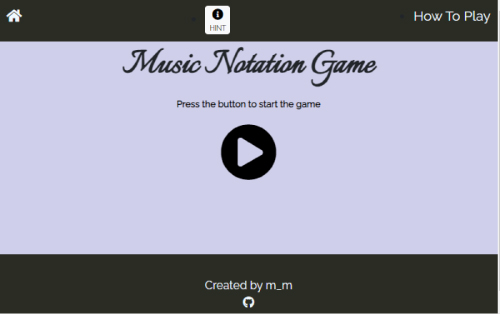
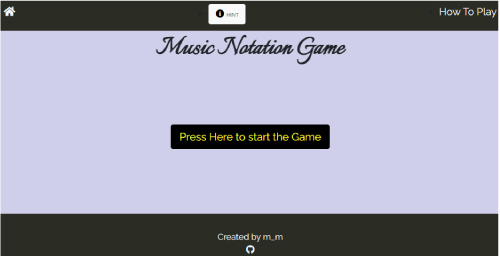
ADD revision and correction on README for contents accuracy

Changed region(s): [[0.0, 0.0, 1.0, 1.0], [0.33, 0.375, 0.66, 0.5938], [0.33, 0.3125, 0.66, 0.3438]]

diff --git a/README.md b/README.md
@@ -1,10 +1,10 @@
-![CI logo](favicon.ico)
+![Music logo](favicon.ico)
 
 # Music Notation Game
 
 This site is created as a Milestone project for Code Institute's Software Development course.
 
-Here is a link to the live project (https://mwmlln.github.io/ms2_music_notation_game/)
+Here is a link to the live project: [Music Notaion game](https://mwmlln.github.io/ms2_music_notation_game/)
 
 ## The purpose for this site
 Music Notation game is a site that hopes to help users learn to read very basic music notations while playing a game and having fun. 
@@ -36,20 +36,24 @@ This game is created for anyone who wants to get familiar with music notations w
 
 #### **Site owner’s goal**
 
+The main objective for creating this site was to gain skill set to build a presentable and interactive web site. To achieve it following considerations are taken:
+
 *	Creating a simple game site anyone can enjoy and gain a skill to read basic music notations.
 *	Creating consistent design and easy navigate pages for any user without any confusing elements.
 *	Efforts to create code clearly so that further implementation would go smoothly.
+
 
 ### **User Stories**
 
 This site is created following user’s expectations in mind.
 
-* First time user would like to:
+* A first time user would like to:
     * Have a clear instruction on what the game objective is and how to achieve it
+    * Easy access to instructions on how to play the game
     * Have a clear choice of action presented to engage in the game (i.e. which buttons to press in order to achieve their goal)
     * Have a easy navigation within the site
 
-* Returning user would like to have following 
+* A returning user would like to have following 
    * An  ability to navigate the site easily
    * Consistent page layout they can easily get familiar with
    * Easy access to instructions on how to play the game to refresh their memory
@@ -63,8 +67,8 @@ This site is created following user’s expectations in mind.
 ### **Scope**
 The scope of Music Notation game defined by the following features:
 
- * Simple and clear index page.
- * Functioning Game including clear feedback for user’s answer.
+ * Simple and clear opening page.
+ * Functioning game including clear feedback for user’s answer.
  *	Responsive design that displays properly in all device sizes.
  *	Easy to navigate pages with consistent navigation bar.
  *	Quick access to HINT popup window.
@@ -73,7 +77,7 @@ The scope of Music Notation game defined by the following features:
 ### **Structure**
 
  * Navigation bar and footer are present on both pages for users to navigate within the site
- * Upon loading a page Title and large start button present in display
+ * On the opening page Title and large start button present in display
  * Once the start button is pressed gaming panel is displayed and the game becomes accessible.
  * Choose 1 of 7 buttons to press for answer
  * Feedback is given to user’s answers and score will update.
@@ -89,77 +93,80 @@ Initial design wirefame
 
 * **Desktop**
 
-<detail><summary>Desktop version of landing page</summary> <img src="assets/wireframe/wireframe_pc.jpg"></detail>
+<details><summary>Desktop version of landing page</summary> <img src="assets/wireframe/wireframe_pc.jpg"></details>
 
-Initial design was to have all components displayed in the page.
+Initial design was to have all components displayed in one page.
 This approach turned out to be slightly confusing for users and caused game functions to produce unexpectd behaviours.
-Another change was to move the How to Play into a independent page rather than popup window. This approach was taken to reduce too many components presents in one page that may confuse users.
+To make gaming page simple, a decision was taken to move the How to Play into another page rather than popup window. This approach was taken to reduce too many components presents in one page that may confuse users.
+HINT button was moved into the nave bar for easier access.
 
-<detail><summary>Desktop version of How To Play page</summary> <img src="assets/wireframe/wireframe_pc.jpg"></detail>
-Initial design on How To play page consisted of game instructions and image, however the image was taken out as it seemed unnessesary to be present in this page when users have access to it in the gaming page.
+<details><summary> Implemented Desktop version of How To Play page</summary> <img src="assets/images/readme_ss/howto_ss.jpg"></details>
+
+Initial design on How To play page consisted of game instructions and image, however the image was taken out as it seemed unnessesary to be present in this page when users have easy access to it in the gaming page.
 
 
 * **Mobile**
-<detail><summary>Mobile version of landing page</summary> <img src="assets/wireframe/wireframe_home_mobile.jpg"></detail> 
 
+<details><summary>Mobile version of landing page</summary> <img src="assets/wireframe/wireframe_home_mobile.jpg"></details>
 
-<detail><summary>Mobile version of How To Play page</summary> <img src="assets/wireframe/assets/wireframe/wireframe_howto_mobile.jpg"></detail> 
-
-
+Mobile version has taken the same modification of PC version to UI, reducing popup window and having How To Play in another independent page.
 
 ## **Features**
 
 The web page consists of two pages, one for playing the game and other for instruction on how to play the game.
 Both pages have almost identical navigation bar and footer, with HINT button added in the navigation bar only in the main gaming(index) page.
 
-![nav bar ](assets/images/readme_ss/nav_ss.jpg) 
-
-![nav bar ](assets/images/readme_ss/footer_ss.jpg) 
+<details><summary>Navigation bar</summary> <img src="assets/images/readme_ss/nav_ss.jpg"></details>
+<details><summary>Footer</summary> <img src="assets/images/readme_ss/footer_ss.jpg"></details>
 
 
 ### **Game page** 
 
 The game page only displays title and large start button to make it clear what button needs to be pressed to start a game.
 
-![Main game page](assets/images/readme_ss/index_opening_ss.jpg)
+<details><summary>Main game page</summary> <img src="assets/images/readme_ss/index_opening_ss.jpg"></details>
 
 ### **Title and big start button**
 
-This big start button is the only thing a user can see in the main page body besides title. This approach was taken so that the first action required to be taken is clear to the users. 
-
+A big start button is the only thing a user can see in the main page body besides title. This approach was taken to make it simple and clear what the fist step is to play the game. 
 
 ### **The Game Area**
 
-It consists of image display area and buttons that are located in the layout of a keyboard. 
-Once the start button is random image of 1 note will be displayed from total of 7 images.
-7 buttons each have an alphabet for the image are located on the keyboard layout.
-A user will try to press the right key for the image displayed and increase their score.
+It consists of Timer, reset button, image display area and buttons that are located in the layout of a keyboard. 
+Once the start button is pressed a random image of 1 note will be displayed from total of 7 images.
+There are 7 buttons below the image, each have an alphabet for Notaion name.
+A user will try to press the right key(i.e Notaion name alphabet) for the note image displayed. Upon the right answer to increase their score.
 
-![Main game page](assets/images/readme_ss/game_ss.jpg) 
+<details><summary>Main game panel</summary> <img src="assets/images/readme_ss/game_ss.jpg"></details>
 
 
 ### **The score Area**
 
-The score area displays the score for the current game, also the score from the last game so that a user can try to improve their skill in each game.
+Each time a user gets a correct answer, the score will increment by 1.  The score area displays the score for the current game on the left side.
+On the right side, the score from the last game is displayed to remind the user so that the user can try to improve their skill in each game.
 
-![Main game page](assets/images/readme_ss/score_ss.jpg)  
+<details><summary>Score Area</summary> <img src="assets/images/readme_ss/score_ss.jpg"></details>
+
 
 ### **HINT popup window**
 
 The button to display a popup window is located in the navigation bar in the gaming page.
 This window contains a image with all notaions and alphabets used for the game. 
+Bootstrap modal is used to diplay this window.
 
-![nav bar ](assets/images/readme_ss/hint_window_ss.jpg)  
+<details><summary>Hint popup window</summary> <img src="assets/images/readme_ss/hint_window_ss.jpg"></details>
+  
 
 ### **How to Play page**
 This page is created to provide instructions on how to play the game.
 A user can read this page to understand how the game works prior to starting their game.
 
-![How To Play Page](assets/images/readme_ss/howto_ss.jpg)  
+<details><summary>How To Play Page</summary> <img src="assets/images/readme_ss/howto_ss.jpg"></details> 
+
 
 ### **How the game is played**
 
-On opening the web site users are presented with a nav bar, a footer and main body with a title and large play button which will initiate a game. This approach was taken to avoid too many component presented at the first sight so that it will be clear what action need to be taken as a very first step to play the game.
+On opening the web site users are presented with a nav bar, a footer and main body with a title and large play button which will initiate a game. 
 
 This is the steps a user will take to play the game.
 
@@ -168,64 +175,68 @@ This is the steps a user will take to play the game.
 *  After the page is loaded, a user has three main choices which are:
 
     1  Visit How To Play page by clicking the menu in the navigation bar.
-    ![How to Play](assets/images/readme_ss/howto_ss.jpg)
+    <details><summary>How To Play Page</summary> <img src="assets/images/readme_ss/howto_ss.jpg"></details>
 
     2  Display popup window with all music notations used in the game and corresponding alphabet names by pressing HINT button located in the centre of the navigation bar. This HINT window can be accessed during the game if a user wants to see the image.
 
-    ![Hint](assets/images/readme_ss/hint_window_ss.jpg)
+    <details><summary>Hint popup window</summary> <img src="assets/images/readme_ss/hint_window_ss.jpg"></details>
 
     3   Press large play button to start the game. By pressing this button, the start button disappears and the gaming panel will display, allowing user to engage with the game.
     Following describe general game process once the start button is pressed.
     
       * Countdown timer will start counting down from 60 seconds.
 
-      ![Countdown Timer](assets/images/readme_ss/timer_reset_ss.jpg)
+          <details><summary>Countdown Timer</summary> <img src="assets/images/readme_ss/timer_reset_ss.jpg"></details>
 
-      * An image with one notation is displayed. 
+      * An image with one notation is displayed.            
 
-      ![Display area](assets/images/readme_ss/display_area_ss.jpg)
+        <details><summary>Notation image diplay</summary> <img src="assets/images/readme_ss/display_area_ss.jpg"></details>  
 
-      * A user need to find a right alphabet for the notation image and press the corresponding key button under the image panel.
+      * A user need to find a right alphabet for the notation image and press the corresponding key button under the image panel.  
+    
+        <details><summary>Keyboard buttons</summary> <img src="assets/images/readme_ss/keyboard_button_ss.jpg"></details>
      
-      * If the answer is correct, "Correct" word becomes green to notify the user. If the answer given is wrong, word "Wrong" will turn red for one second instead.
+      * If the answer is correct, "Correct" word becomes green for one second to notify the user. If the answer given is wrong, word "Wrong" will turn red instead.
+        <details><summary>Correct or Wrong</summary> <img src="assets/images/readme_ss/correct_wrong_ss.jpg"></details>  
 
-       ![Correct or Wrong](./assets/images/readme_ss/correct_wrong_ss.jpg)
+      * Score will also go up by 1 when the answer is correct.    
+    
 
-      * Another image will be displayed. A user will repeat the previous process and try to get as many correct answers to obtain points during 60 seconds.
+      * Another image will be displayed. A user will repeat the previous process and try to get as many correct answers to obtain high score during 60 seconds.
       Scores for current game and previous game are displayed just under the corret/Wrong Area.
-
-       ![score](assets/images/readme_ss/score_ss.jpg)
-
+        <details><summary>score</summary> <img src="assets/images/readme_ss/score_ss.jpg"></details>   
+       
       * When the countdown timer turns zero, popup window is displayed to notify the user about the game completion with the final score.
+        <details><summary>Game Over popup window</summary> <img src="assets/images/readme_ss/gameover_alert_ss.jpg"></details>         
 
-      ![Game Over](assets/images/readme_ss/gameover_alert_ss.jpg)
+      * The final score is recorded in the Last Score section so that a user can refer their previous score in the next game and try to improve their skill.
 
-      * The final score is recorded in the Last Score section so that a user can refer their previous score in the next game and try to get better score.
+      * Once the user press OK button in the Game over popup window, the timer and score are reset back to default value. Gaming panel disappears and large start button is present again, ready for another game.
 
-      * Once the user press OK button in the popup window, the timer and score are reset back to default value. Gaming panel disappears and large start button is present again, ready for another game.
-
-      * A user can press reset button located beside timer during the game to cancel the game and return to start page.
+      * A user can press reset button located beside timer, during the game to cancel the game and return to start page.
 
 #### Features Left to Implement
 
-Initial intention for the game was to have corresponding sound when the randomly selected notation image was displayed and also when a user pressed the alphabet buttons. However the nature of the game being fast pace, playing audio consistently and each sound to be clearly identifiable turned out to be too difficult to inplemet at this stage.
-
+Initial intention for the game was to have corresponding sound when the randomly selected notation image was displayed and also when a user pressed the alphabet buttons. However the nature of the game being fast pace, playing audio consistently and each sound to be clearly identifiable turned out to be too difficult to implemet at this stage due to short space of time given to complete the project.
 
 
 ## Testing
 
-This site was tested with number of ways to ensure the game function works and has clear procedure that is easy to understand for every user.
+This site was tested with number of ways to ensure the game function works as intended and has clear procedure that is easy to understand for every user.
 
+Through out the development phase, code was tested line by line where possible, using chrome developper tool. This is to ensure that the returned value from each function matches to the value expected. This approach was taken so that any small errors in one function does not cause bigger problems in the whole project. This approach also brought me some small comfort when function behaved as expected during rathter overwhelming project for a novice coder.
+
+Below are some challenges during the development and tesing phase.
 
 * Initial design on wireframe was to have all the components displayed at all the time. This layout presented two major issues preventing game functions to work properly
   1. Pressing start buttons number of times triggered countdown timer to diplay multipule count down processes causing number displayed in the timer inconsistent.
  
-  2. Pressing alphabet key button before starting a gamecan gain points losing a point of having timer.
+  2. Pressing alphabet key button for answer before start button is pressed can increase score without timer and other functions starting.
 
-  These errors were rectified by hiding game panel until the game is started and the start button replaced by small reset button once the game is started. This approach was suggested by my mentor and it solved all the issues and improved the appearance and clearlity.
+  These errors were rectified by hiding game panel until the game is started and the start button replaced by small reset button once the game is started. This approach was suggested by my mentor and it solved above issues and improved the site's appearance and clearlity.
 
-* When the reset button was implemented to give user an optoin to exit the game early, the timer error ocurred same way the start button was pressed more than once. (i.e. user start a game then exit early by pressing button. Restarting game within 60 seconds, timer displayed two countdown process resolting the numbers displayed going up and down.)
-This error was fixed by giving a timer status of true of false which can controled in function at appropriate stage in the process and made timer to refer this status to allow continuation.
+* When the reset button was implemented to give user an optoin to exit the game early, the timer error ocurred same way the start button was pressed more than once. (i.e. user start a game then exit early by pressing button. Restarting game within 60 seconds, the timer displayed two countdown process resulting the numbers displayed going up and down.)
+This error was fixed by giving timer a status of true or false and timer to refer this status in oder to continue the process. 
 
 * Each pages has been tested for responsiveness, making sure that the layout structure is kept intact on all devce sizes.
 CSS min-height and min-width was used for layout where view height and view width was used to ensure that the image or layout doesn't overflow.
